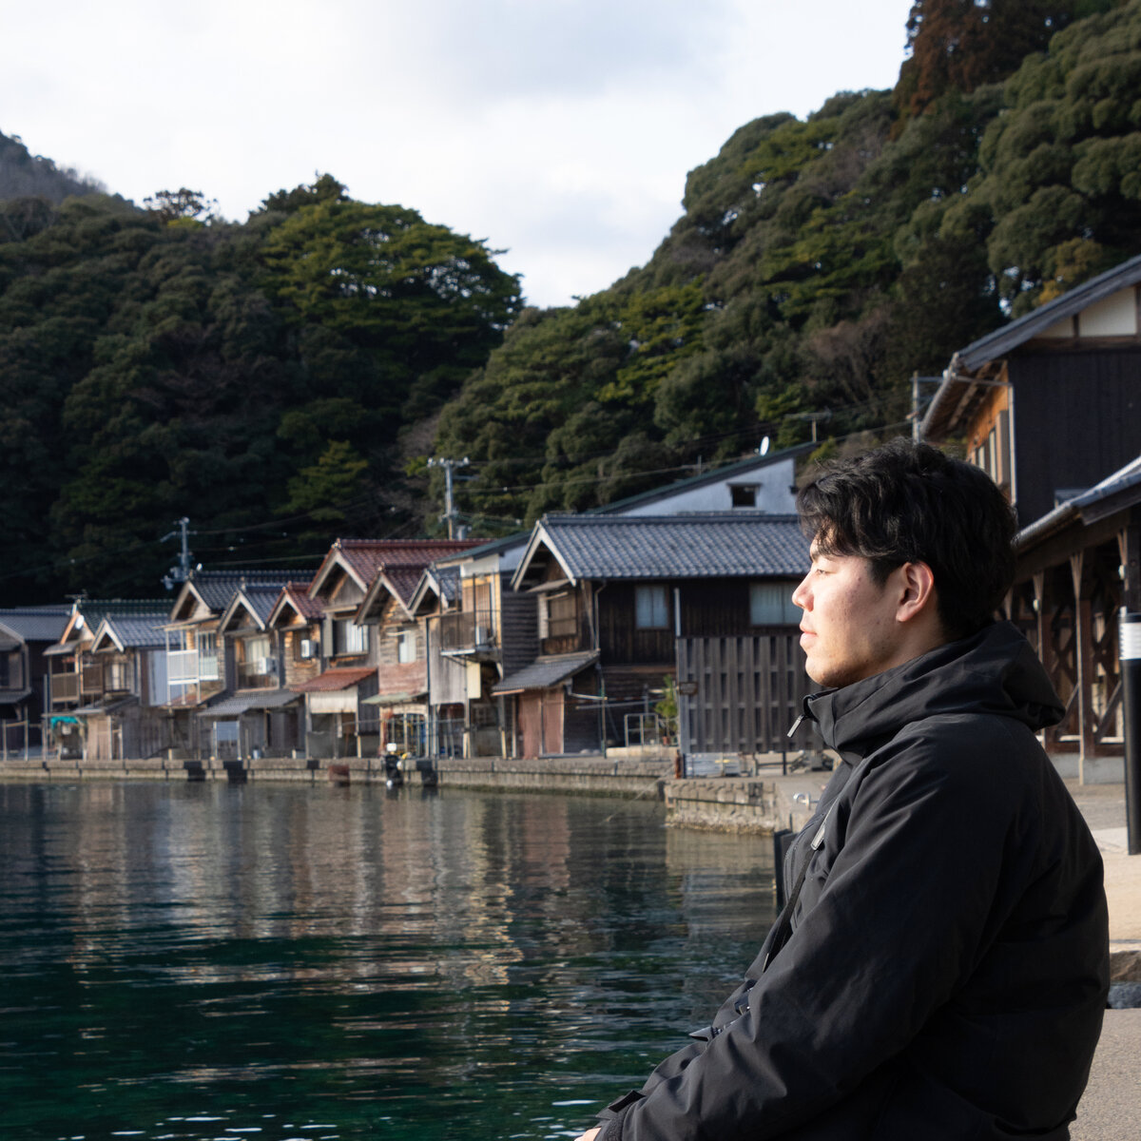
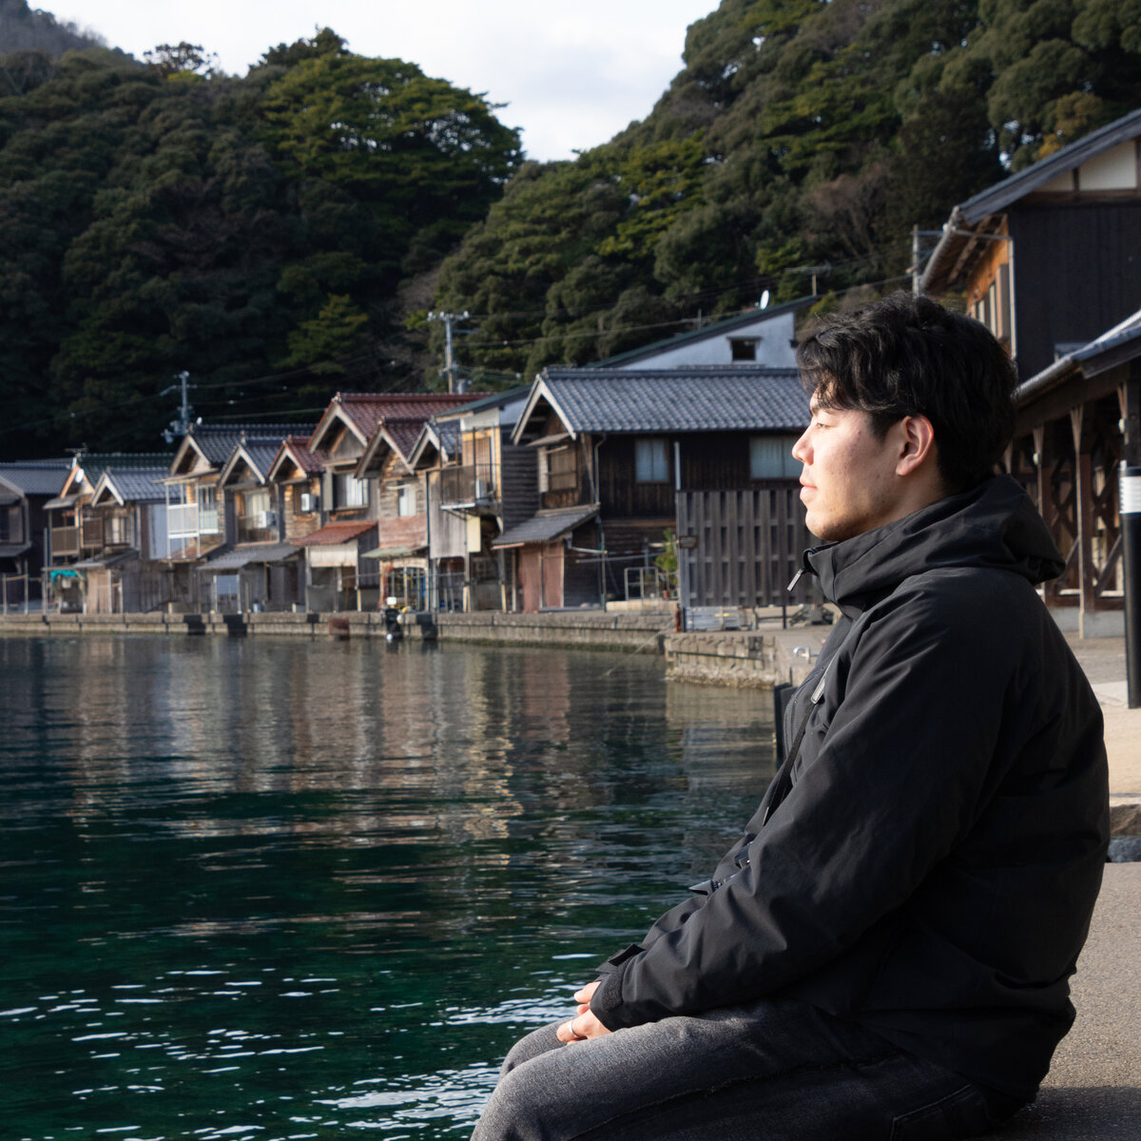
Portrait re-crop, nav English-only, remove History & Works arrow
Portrait:
- Shift crop down 400px (y+1650) to show sitting position
- Square 3120x3120 from original 4000x6000, resized to 1200x1200

Nav (all pages — sidebar + mobile):
- Always English regardless of language toggle
- Remove History item (7 items: About/Research/Awards/Skills/Activities/Works/Contact)
- Remove ↗ arrow from Works in sidebar
- Remove Japanese span labels from all nav items

diff --git a/index.html b/index.html
@@ -700,54 +700,13 @@
 <nav id="side-nav" aria-label="Main navigation">
   <a href="#hero" class="nav-monogram">SHIN SUZUKI</a>
   <ul class="nav-links">
-    <li>
-      <a href="#about" class="nav-link">
-        <span class="nav-en">About</span>
-        <span class="nav-ja">概要</span>
-      </a>
-    </li>
-    <li>
-      <a href="#history" class="nav-link">
-        <span class="nav-en">History</span>
-        <span class="nav-ja">経歴</span>
-      </a>
-    </li>
-    <li>
-      <a href="#research" class="nav-link">
-        <span class="nav-en">Research</span>
-        <span class="nav-ja">研究</span>
-      </a>
-    </li>
-    <li>
-      <a href="#awards" class="nav-link">
-        <span class="nav-en">Awards</span>
-        <span class="nav-ja">受賞</span>
-      </a>
-    </li>
-    <li>
-      <a href="#skills" class="nav-link">
-        <span class="nav-en">Skills</span>
-        <span class="nav-ja">スキル</span>
-      </a>
-    </li>
-    <li>
-      <a href="#activities" class="nav-link">
-        <span class="nav-en">Activities</span>
-        <span class="nav-ja">活動</span>
-      </a>
-    </li>
-    <li>
-      <a href="works.html" class="nav-link">
-        <span class="nav-en">Works <span class="nav-works-arrow">↗</span></span>
-        <span class="nav-ja">作品</span>
-      </a>
-    </li>
-    <li>
-      <a href="#contact" class="nav-link">
-        <span class="nav-en">Contact</span>
-        <span class="nav-ja">連絡先</span>
-      </a>
-    </li>
+    <li><a href="#about"      class="nav-link"><span class="nav-en">About</span></a></li>
+    <li><a href="#research"   class="nav-link"><span class="nav-en">Research</span></a></li>
+    <li><a href="#awards"     class="nav-link"><span class="nav-en">Awards</span></a></li>
+    <li><a href="#skills"     class="nav-link"><span class="nav-en">Skills</span></a></li>
+    <li><a href="#activities" class="nav-link"><span class="nav-en">Activities</span></a></li>
+    <li><a href="works.html"  class="nav-link"><span class="nav-en">Works</span></a></li>
+    <li><a href="#contact"    class="nav-link"><span class="nav-en">Contact</span></a></li>
   </ul>
   <button id="nav-lang" aria-label="Toggle language">日本語</button>
 </nav>
@@ -764,14 +723,13 @@
 
 <!-- Mobile nav overlay -->
 <nav id="mobile-nav" aria-label="Mobile navigation">
-  <a href="#about"      onclick="closeMobile()"><span class="en">About</span><span class="ja" style="display:none">概要</span></a>
-  <a href="#history"    onclick="closeMobile()"><span class="en">History</span><span class="ja" style="display:none">経歴</span></a>
-  <a href="#research"   onclick="closeMobile()"><span class="en">Research</span><span class="ja" style="display:none">研究</span></a>
-  <a href="#awards"     onclick="closeMobile()"><span class="en">Awards</span><span class="ja" style="display:none">受賞</span></a>
+  <a href="#about"      onclick="closeMobile()">About</a>
+  <a href="#research"   onclick="closeMobile()">Research</a>
+  <a href="#awards"     onclick="closeMobile()">Awards</a>
   <a href="#skills"     onclick="closeMobile()">Skills</a>
-  <a href="#activities" onclick="closeMobile()"><span class="en">Activities</span><span class="ja" style="display:none">活動</span></a>
-  <a href="works.html" onclick="closeMobile()"><span class="en">Works</span><span class="ja" style="display:none">作品</span></a>
-  <a href="#contact"    onclick="closeMobile()"><span class="en">Contact</span><span class="ja" style="display:none">連絡先</span></a>
+  <a href="#activities" onclick="closeMobile()">Activities</a>
+  <a href="works.html"  onclick="closeMobile()">Works</a>
+  <a href="#contact"    onclick="closeMobile()">Contact</a>
   <button id="mobile-lang" onclick="toggleLangMobile()">日本語</button>
 </nav>
 

diff --git a/works/noren-mitsuke.html b/works/noren-mitsuke.html
@@ -131,28 +131,26 @@
   <nav id="side-nav" aria-label="Main navigation">
     <a href="../index.html" class="nav-monogram">SHIN SUZUKI</a>
     <ul class="nav-links">
-      <li><a href="../index.html#about" class="nav-link"><span class="nav-en">About</span><span class="nav-ja">概要</span></a></li>
-      <li><a href="../index.html#history" class="nav-link"><span class="nav-en">History</span><span class="nav-ja">経歴</span></a></li>
-      <li><a href="../index.html#research" class="nav-link"><span class="nav-en">Research</span><span class="nav-ja">研究</span></a></li>
-      <li><a href="../index.html#awards" class="nav-link"><span class="nav-en">Awards</span><span class="nav-ja">受賞</span></a></li>
-      <li><a href="../index.html#skills" class="nav-link"><span class="nav-en">Skills</span></a></li>
-      <li><a href="../index.html#activities" class="nav-link"><span class="nav-en">Activities</span><span class="nav-ja">活動</span></a></li>
-      <li><a href="../works.html" class="nav-link active"><span class="nav-en">Works ↗</span><span class="nav-ja">作品</span></a></li>
-      <li><a href="../index.html#contact" class="nav-link"><span class="nav-en">Contact</span><span class="nav-ja">連絡先</span></a></li>
+      <li><a href="../index.html#about"      class="nav-link"><span class="nav-en">About</span></a></li>
+      <li><a href="../index.html#research"   class="nav-link"><span class="nav-en">Research</span></a></li>
+      <li><a href="../index.html#awards"     class="nav-link"><span class="nav-en">Awards</span></a></li>
+      <li><a href="../index.html#skills"     class="nav-link"><span class="nav-en">Skills</span></a></li>
+      <li><a href="../index.html#activities" class="nav-link"><span class="nav-en">Activities</span></a></li>
+      <li><a href="../works.html" class="nav-link active"><span class="nav-en">Works</span></a></li>
+      <li><a href="../index.html#contact"    class="nav-link"><span class="nav-en">Contact</span></a></li>
     </ul>
     <button id="nav-lang" onclick="toggleLang()">日本語</button>
   </nav>
   <div id="top-bar" aria-hidden="true"><span class="bar-name">Shin SUZUKI</span></div>
   <button id="hamburger" aria-label="Open menu" aria-expanded="false"><span></span><span></span><span></span></button>
   <nav id="mobile-nav" aria-label="Mobile navigation">
-    <a href="../index.html#about"><span class="en">About</span><span class="ja" style="display:none">概要</span></a>
-    <a href="../index.html#history"><span class="en">History</span><span class="ja" style="display:none">経歴</span></a>
-    <a href="../index.html#research"><span class="en">Research</span><span class="ja" style="display:none">研究</span></a>
-    <a href="../index.html#awards"><span class="en">Awards</span><span class="ja" style="display:none">受賞</span></a>
+    <a href="../index.html#about">About</a>
+    <a href="../index.html#research">Research</a>
+    <a href="../index.html#awards">Awards</a>
     <a href="../index.html#skills">Skills</a>
-    <a href="../index.html#activities"><span class="en">Activities</span><span class="ja" style="display:none">活動</span></a>
-    <a href="../works.html"><span class="en">Works</span><span class="ja" style="display:none">作品</span></a>
-    <a href="../index.html#contact"><span class="en">Contact</span><span class="ja" style="display:none">連絡先</span></a>
+    <a href="../index.html#activities">Activities</a>
+    <a href="../works.html">Works</a>
+    <a href="../index.html#contact">Contact</a>
     <button id="mobile-lang" onclick="toggleLang()">日本語</button>
   </nav>
   <div id="progress"></div>

diff --git a/works/channeling-culture-canal.html b/works/channeling-culture-canal.html
@@ -15,28 +15,26 @@
   <nav id="side-nav" aria-label="Main navigation">
     <a href="../index.html" class="nav-monogram">SHIN SUZUKI</a>
     <ul class="nav-links">
-      <li><a href="../index.html#about" class="nav-link"><span class="nav-en">About</span><span class="nav-ja">概要</span></a></li>
-      <li><a href="../index.html#history" class="nav-link"><span class="nav-en">History</span><span class="nav-ja">経歴</span></a></li>
-      <li><a href="../index.html#research" class="nav-link"><span class="nav-en">Research</span><span class="nav-ja">研究</span></a></li>
-      <li><a href="../index.html#awards" class="nav-link"><span class="nav-en">Awards</span><span class="nav-ja">受賞</span></a></li>
-      <li><a href="../index.html#skills" class="nav-link"><span class="nav-en">Skills</span></a></li>
-      <li><a href="../index.html#activities" class="nav-link"><span class="nav-en">Activities</span><span class="nav-ja">活動</span></a></li>
-      <li><a href="../works.html" class="nav-link active"><span class="nav-en">Works ↗</span><span class="nav-ja">作品</span></a></li>
-      <li><a href="../index.html#contact" class="nav-link"><span class="nav-en">Contact</span><span class="nav-ja">連絡先</span></a></li>
+      <li><a href="../index.html#about"      class="nav-link"><span class="nav-en">About</span></a></li>
+      <li><a href="../index.html#research"   class="nav-link"><span class="nav-en">Research</span></a></li>
+      <li><a href="../index.html#awards"     class="nav-link"><span class="nav-en">Awards</span></a></li>
+      <li><a href="../index.html#skills"     class="nav-link"><span class="nav-en">Skills</span></a></li>
+      <li><a href="../index.html#activities" class="nav-link"><span class="nav-en">Activities</span></a></li>
+      <li><a href="../works.html" class="nav-link active"><span class="nav-en">Works</span></a></li>
+      <li><a href="../index.html#contact"    class="nav-link"><span class="nav-en">Contact</span></a></li>
     </ul>
     <button id="nav-lang" onclick="toggleLang()">日本語</button>
   </nav>
   <div id="top-bar" aria-hidden="true"><span class="bar-name">Shin SUZUKI</span></div>
   <button id="hamburger" aria-label="Open menu" aria-expanded="false"><span></span><span></span><span></span></button>
   <nav id="mobile-nav" aria-label="Mobile navigation">
-    <a href="../index.html#about"><span class="en">About</span><span class="ja" style="display:none">概要</span></a>
-    <a href="../index.html#history"><span class="en">History</span><span class="ja" style="display:none">経歴</span></a>
-    <a href="../index.html#research"><span class="en">Research</span><span class="ja" style="display:none">研究</span></a>
-    <a href="../index.html#awards"><span class="en">Awards</span><span class="ja" style="display:none">受賞</span></a>
+    <a href="../index.html#about">About</a>
+    <a href="../index.html#research">Research</a>
+    <a href="../index.html#awards">Awards</a>
     <a href="../index.html#skills">Skills</a>
-    <a href="../index.html#activities"><span class="en">Activities</span><span class="ja" style="display:none">活動</span></a>
-    <a href="../works.html"><span class="en">Works</span><span class="ja" style="display:none">作品</span></a>
-    <a href="../index.html#contact"><span class="en">Contact</span><span class="ja" style="display:none">連絡先</span></a>
+    <a href="../index.html#activities">Activities</a>
+    <a href="../works.html">Works</a>
+    <a href="../index.html#contact">Contact</a>
     <button id="mobile-lang" onclick="toggleLang()">日本語</button>
   </nav>
   <div id="progress"></div>

diff --git a/works/collective-housing.html b/works/collective-housing.html
@@ -15,28 +15,26 @@
   <nav id="side-nav" aria-label="Main navigation">
     <a href="../index.html" class="nav-monogram">SHIN SUZUKI</a>
     <ul class="nav-links">
-      <li><a href="../index.html#about" class="nav-link"><span class="nav-en">About</span><span class="nav-ja">概要</span></a></li>
-      <li><a href="../index.html#history" class="nav-link"><span class="nav-en">History</span><span class="nav-ja">経歴</span></a></li>
-      <li><a href="../index.html#research" class="nav-link"><span class="nav-en">Research</span><span class="nav-ja">研究</span></a></li>
-      <li><a href="../index.html#awards" class="nav-link"><span class="nav-en">Awards</span><span class="nav-ja">受賞</span></a></li>
-      <li><a href="../index.html#skills" class="nav-link"><span class="nav-en">Skills</span></a></li>
-      <li><a href="../index.html#activities" class="nav-link"><span class="nav-en">Activities</span><span class="nav-ja">活動</span></a></li>
-      <li><a href="../works.html" class="nav-link active"><span class="nav-en">Works ↗</span><span class="nav-ja">作品</span></a></li>
-      <li><a href="../index.html#contact" class="nav-link"><span class="nav-en">Contact</span><span class="nav-ja">連絡先</span></a></li>
+      <li><a href="../index.html#about"      class="nav-link"><span class="nav-en">About</span></a></li>
+      <li><a href="../index.html#research"   class="nav-link"><span class="nav-en">Research</span></a></li>
+      <li><a href="../index.html#awards"     class="nav-link"><span class="nav-en">Awards</span></a></li>
+      <li><a href="../index.html#skills"     class="nav-link"><span class="nav-en">Skills</span></a></li>
+      <li><a href="../index.html#activities" class="nav-link"><span class="nav-en">Activities</span></a></li>
+      <li><a href="../works.html" class="nav-link active"><span class="nav-en">Works</span></a></li>
+      <li><a href="../index.html#contact"    class="nav-link"><span class="nav-en">Contact</span></a></li>
     </ul>
     <button id="nav-lang" onclick="toggleLang()">日本語</button>
   </nav>
   <div id="top-bar" aria-hidden="true"><span class="bar-name">Shin SUZUKI</span></div>
   <button id="hamburger" aria-label="Open menu" aria-expanded="false"><span></span><span></span><span></span></button>
   <nav id="mobile-nav" aria-label="Mobile navigation">
-    <a href="../index.html#about"><span class="en">About</span><span class="ja" style="display:none">概要</span></a>
-    <a href="../index.html#history"><span class="en">History</span><span class="ja" style="display:none">経歴</span></a>
-    <a href="../index.html#research"><span class="en">Research</span><span class="ja" style="display:none">研究</span></a>
-    <a href="../index.html#awards"><span class="en">Awards</span><span class="ja" style="display:none">受賞</span></a>
+    <a href="../index.html#about">About</a>
+    <a href="../index.html#research">Research</a>
+    <a href="../index.html#awards">Awards</a>
     <a href="../index.html#skills">Skills</a>
-    <a href="../index.html#activities"><span class="en">Activities</span><span class="ja" style="display:none">活動</span></a>
-    <a href="../works.html"><span class="en">Works</span><span class="ja" style="display:none">作品</span></a>
-    <a href="../index.html#contact"><span class="en">Contact</span><span class="ja" style="display:none">連絡先</span></a>
+    <a href="../index.html#activities">Activities</a>
+    <a href="../works.html">Works</a>
+    <a href="../index.html#contact">Contact</a>
     <button id="mobile-lang" onclick="toggleLang()">日本語</button>
   </nav>
   <div id="progress"></div>

diff --git a/works/elementary-school.html b/works/elementary-school.html
@@ -15,28 +15,26 @@
   <nav id="side-nav" aria-label="Main navigation">
     <a href="../index.html" class="nav-monogram">SHIN SUZUKI</a>
     <ul class="nav-links">
-      <li><a href="../index.html#about" class="nav-link"><span class="nav-en">About</span><span class="nav-ja">概要</span></a></li>
-      <li><a href="../index.html#history" class="nav-link"><span class="nav-en">History</span><span class="nav-ja">経歴</span></a></li>
-      <li><a href="../index.html#research" class="nav-link"><span class="nav-en">Research</span><span class="nav-ja">研究</span></a></li>
-      <li><a href="../index.html#awards" class="nav-link"><span class="nav-en">Awards</span><span class="nav-ja">受賞</span></a></li>
-      <li><a href="../index.html#skills" class="nav-link"><span class="nav-en">Skills</span></a></li>
-      <li><a href="../index.html#activities" class="nav-link"><span class="nav-en">Activities</span><span class="nav-ja">活動</span></a></li>
-      <li><a href="../works.html" class="nav-link active"><span class="nav-en">Works ↗</span><span class="nav-ja">作品</span></a></li>
-      <li><a href="../index.html#contact" class="nav-link"><span class="nav-en">Contact</span><span class="nav-ja">連絡先</span></a></li>
+      <li><a href="../index.html#about"      class="nav-link"><span class="nav-en">About</span></a></li>
+      <li><a href="../index.html#research"   class="nav-link"><span class="nav-en">Research</span></a></li>
+      <li><a href="../index.html#awards"     class="nav-link"><span class="nav-en">Awards</span></a></li>
+      <li><a href="../index.html#skills"     class="nav-link"><span class="nav-en">Skills</span></a></li>
+      <li><a href="../index.html#activities" class="nav-link"><span class="nav-en">Activities</span></a></li>
+      <li><a href="../works.html" class="nav-link active"><span class="nav-en">Works</span></a></li>
+      <li><a href="../index.html#contact"    class="nav-link"><span class="nav-en">Contact</span></a></li>
     </ul>
     <button id="nav-lang" onclick="toggleLang()">日本語</button>
   </nav>
   <div id="top-bar" aria-hidden="true"><span class="bar-name">Shin SUZUKI</span></div>
   <button id="hamburger" aria-label="Open menu" aria-expanded="false"><span></span><span></span><span></span></button>
   <nav id="mobile-nav" aria-label="Mobile navigation">
-    <a href="../index.html#about"><span class="en">About</span><span class="ja" style="display:none">概要</span></a>
-    <a href="../index.html#history"><span class="en">History</span><span class="ja" style="display:none">経歴</span></a>
-    <a href="../index.html#research"><span class="en">Research</span><span class="ja" style="display:none">研究</span></a>
-    <a href="../index.html#awards"><span class="en">Awards</span><span class="ja" style="display:none">受賞</span></a>
+    <a href="../index.html#about">About</a>
+    <a href="../index.html#research">Research</a>
+    <a href="../index.html#awards">Awards</a>
     <a href="../index.html#skills">Skills</a>
-    <a href="../index.html#activities"><span class="en">Activities</span><span class="ja" style="display:none">活動</span></a>
-    <a href="../works.html"><span class="en">Works</span><span class="ja" style="display:none">作品</span></a>
-    <a href="../index.html#contact"><span class="en">Contact</span><span class="ja" style="display:none">連絡先</span></a>
+    <a href="../index.html#activities">Activities</a>
+    <a href="../works.html">Works</a>
+    <a href="../index.html#contact">Contact</a>
     <button id="mobile-lang" onclick="toggleLang()">日本語</button>
   </nav>
   <div id="progress"></div>

diff --git a/works/funagare-toshi.html b/works/funagare-toshi.html
@@ -15,28 +15,26 @@
   <nav id="side-nav" aria-label="Main navigation">
     <a href="../index.html" class="nav-monogram">SHIN SUZUKI</a>
     <ul class="nav-links">
-      <li><a href="../index.html#about" class="nav-link"><span class="nav-en">About</span><span class="nav-ja">概要</span></a></li>
-      <li><a href="../index.html#history" class="nav-link"><span class="nav-en">History</span><span class="nav-ja">経歴</span></a></li>
-      <li><a href="../index.html#research" class="nav-link"><span class="nav-en">Research</span><span class="nav-ja">研究</span></a></li>
-      <li><a href="../index.html#awards" class="nav-link"><span class="nav-en">Awards</span><span class="nav-ja">受賞</span></a></li>
-      <li><a href="../index.html#skills" class="nav-link"><span class="nav-en">Skills</span></a></li>
-      <li><a href="../index.html#activities" class="nav-link"><span class="nav-en">Activities</span><span class="nav-ja">活動</span></a></li>
-      <li><a href="../works.html" class="nav-link active"><span class="nav-en">Works ↗</span><span class="nav-ja">作品</span></a></li>
-      <li><a href="../index.html#contact" class="nav-link"><span class="nav-en">Contact</span><span class="nav-ja">連絡先</span></a></li>
+      <li><a href="../index.html#about"      class="nav-link"><span class="nav-en">About</span></a></li>
+      <li><a href="../index.html#research"   class="nav-link"><span class="nav-en">Research</span></a></li>
+      <li><a href="../index.html#awards"     class="nav-link"><span class="nav-en">Awards</span></a></li>
+      <li><a href="../index.html#skills"     class="nav-link"><span class="nav-en">Skills</span></a></li>
+      <li><a href="../index.html#activities" class="nav-link"><span class="nav-en">Activities</span></a></li>
+      <li><a href="../works.html" class="nav-link active"><span class="nav-en">Works</span></a></li>
+      <li><a href="../index.html#contact"    class="nav-link"><span class="nav-en">Contact</span></a></li>
     </ul>
     <button id="nav-lang" onclick="toggleLang()">日本語</button>
   </nav>
   <div id="top-bar" aria-hidden="true"><span class="bar-name">Shin SUZUKI</span></div>
   <button id="hamburger" aria-label="Open menu" aria-expanded="false"><span></span><span></span><span></span></button>
   <nav id="mobile-nav" aria-label="Mobile navigation">
-    <a href="../index.html#about"><span class="en">About</span><span class="ja" style="display:none">概要</span></a>
-    <a href="../index.html#history"><span class="en">History</span><span class="ja" style="display:none">経歴</span></a>
-    <a href="../index.html#research"><span class="en">Research</span><span class="ja" style="display:none">研究</span></a>
-    <a href="../index.html#awards"><span class="en">Awards</span><span class="ja" style="display:none">受賞</span></a>
+    <a href="../index.html#about">About</a>
+    <a href="../index.html#research">Research</a>
+    <a href="../index.html#awards">Awards</a>
     <a href="../index.html#skills">Skills</a>
-    <a href="../index.html#activities"><span class="en">Activities</span><span class="ja" style="display:none">活動</span></a>
-    <a href="../works.html"><span class="en">Works</span><span class="ja" style="display:none">作品</span></a>
-    <a href="../index.html#contact"><span class="en">Contact</span><span class="ja" style="display:none">連絡先</span></a>
+    <a href="../index.html#activities">Activities</a>
+    <a href="../works.html">Works</a>
+    <a href="../index.html#contact">Contact</a>
     <button id="mobile-lang" onclick="toggleLang()">日本語</button>
   </nav>
   <div id="progress"></div>

diff --git a/works.html b/works.html
@@ -280,14 +280,13 @@
 <nav id="side-nav" aria-label="Main navigation">
   <a href="index.html" class="nav-monogram">SHIN SUZUKI</a>
   <ul class="nav-links">
-    <li><a href="index.html#about" class="nav-link"><span class="nav-en">About</span><span class="nav-ja">概要</span></a></li>
-    <li><a href="index.html#history" class="nav-link"><span class="nav-en">History</span><span class="nav-ja">経歴</span></a></li>
-    <li><a href="index.html#research" class="nav-link"><span class="nav-en">Research</span><span class="nav-ja">研究</span></a></li>
-    <li><a href="index.html#awards" class="nav-link"><span class="nav-en">Awards</span><span class="nav-ja">受賞</span></a></li>
-    <li><a href="index.html#skills" class="nav-link"><span class="nav-en">Skills</span></a></li>
-    <li><a href="index.html#activities" class="nav-link"><span class="nav-en">Activities</span><span class="nav-ja">活動</span></a></li>
-    <li><a href="works.html" class="nav-link active"><span class="nav-en">Works</span><span class="nav-ja">作品</span></a></li>
-    <li><a href="index.html#contact" class="nav-link"><span class="nav-en">Contact</span><span class="nav-ja">連絡先</span></a></li>
+    <li><a href="index.html#about"      class="nav-link"><span class="nav-en">About</span></a></li>
+    <li><a href="index.html#research"   class="nav-link"><span class="nav-en">Research</span></a></li>
+    <li><a href="index.html#awards"     class="nav-link"><span class="nav-en">Awards</span></a></li>
+    <li><a href="index.html#skills"     class="nav-link"><span class="nav-en">Skills</span></a></li>
+    <li><a href="index.html#activities" class="nav-link"><span class="nav-en">Activities</span></a></li>
+    <li><a href="works.html"            class="nav-link active"><span class="nav-en">Works</span></a></li>
+    <li><a href="index.html#contact"    class="nav-link"><span class="nav-en">Contact</span></a></li>
   </ul>
   <button id="nav-lang">日本語</button>
 </nav>
@@ -295,14 +294,13 @@
 <div id="top-bar" aria-hidden="true"><span class="bar-name">Shin SUZUKI</span></div>
 <button id="hamburger" aria-label="Open menu" aria-expanded="false"><span></span><span></span><span></span></button>
 <nav id="mobile-nav" aria-label="Mobile navigation">
-  <a href="index.html#about"><span class="en">About</span><span class="ja" style="display:none">概要</span></a>
-  <a href="index.html#history"><span class="en">History</span><span class="ja" style="display:none">経歴</span></a>
-  <a href="index.html#research"><span class="en">Research</span><span class="ja" style="display:none">研究</span></a>
-  <a href="index.html#awards"><span class="en">Awards</span><span class="ja" style="display:none">受賞</span></a>
+  <a href="index.html#about">About</a>
+  <a href="index.html#research">Research</a>
+  <a href="index.html#awards">Awards</a>
   <a href="index.html#skills">Skills</a>
-  <a href="index.html#activities"><span class="en">Activities</span><span class="ja" style="display:none">活動</span></a>
+  <a href="index.html#activities">Activities</a>
   <a href="works.html">Works</a>
-  <a href="index.html#contact"><span class="en">Contact</span><span class="ja" style="display:none">連絡先</span></a>
+  <a href="index.html#contact">Contact</a>
   <button id="mobile-lang">日本語</button>
 </nav>
 
